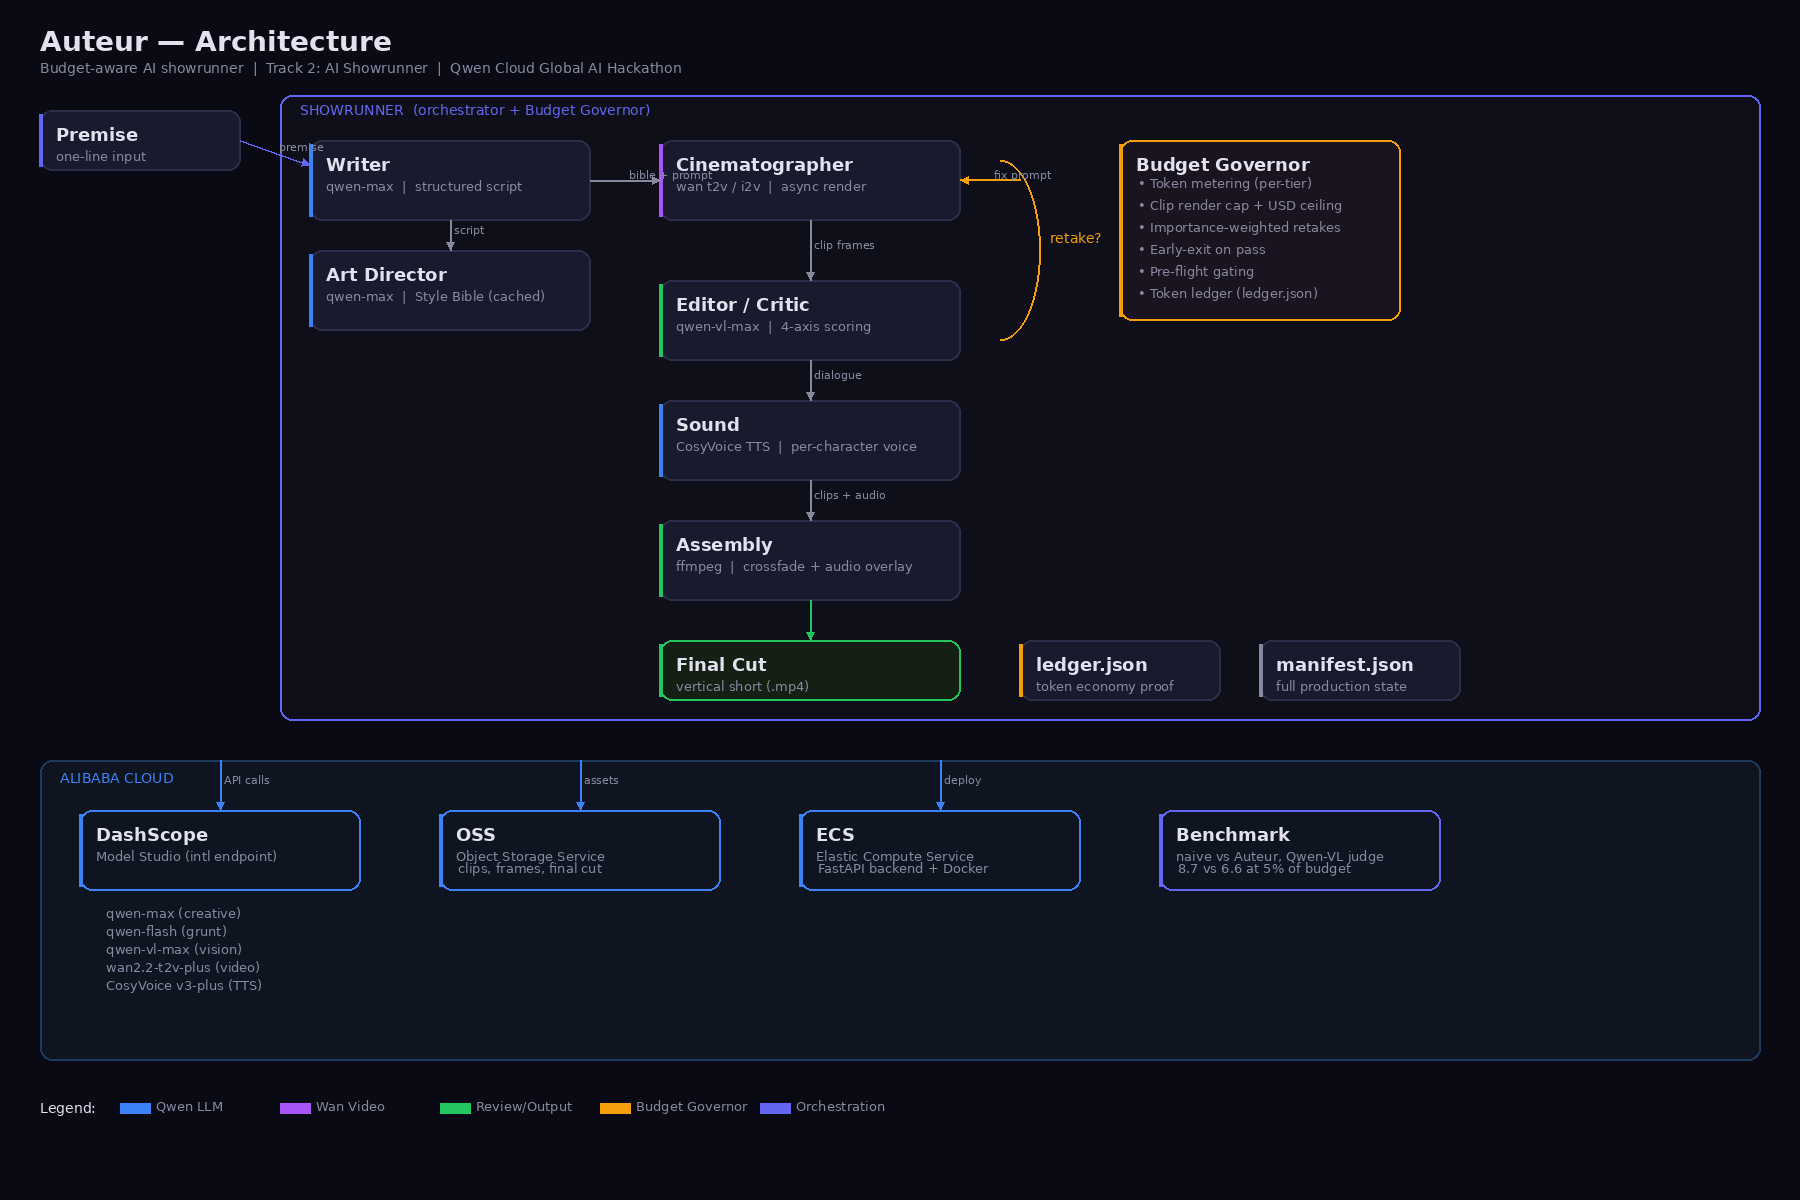
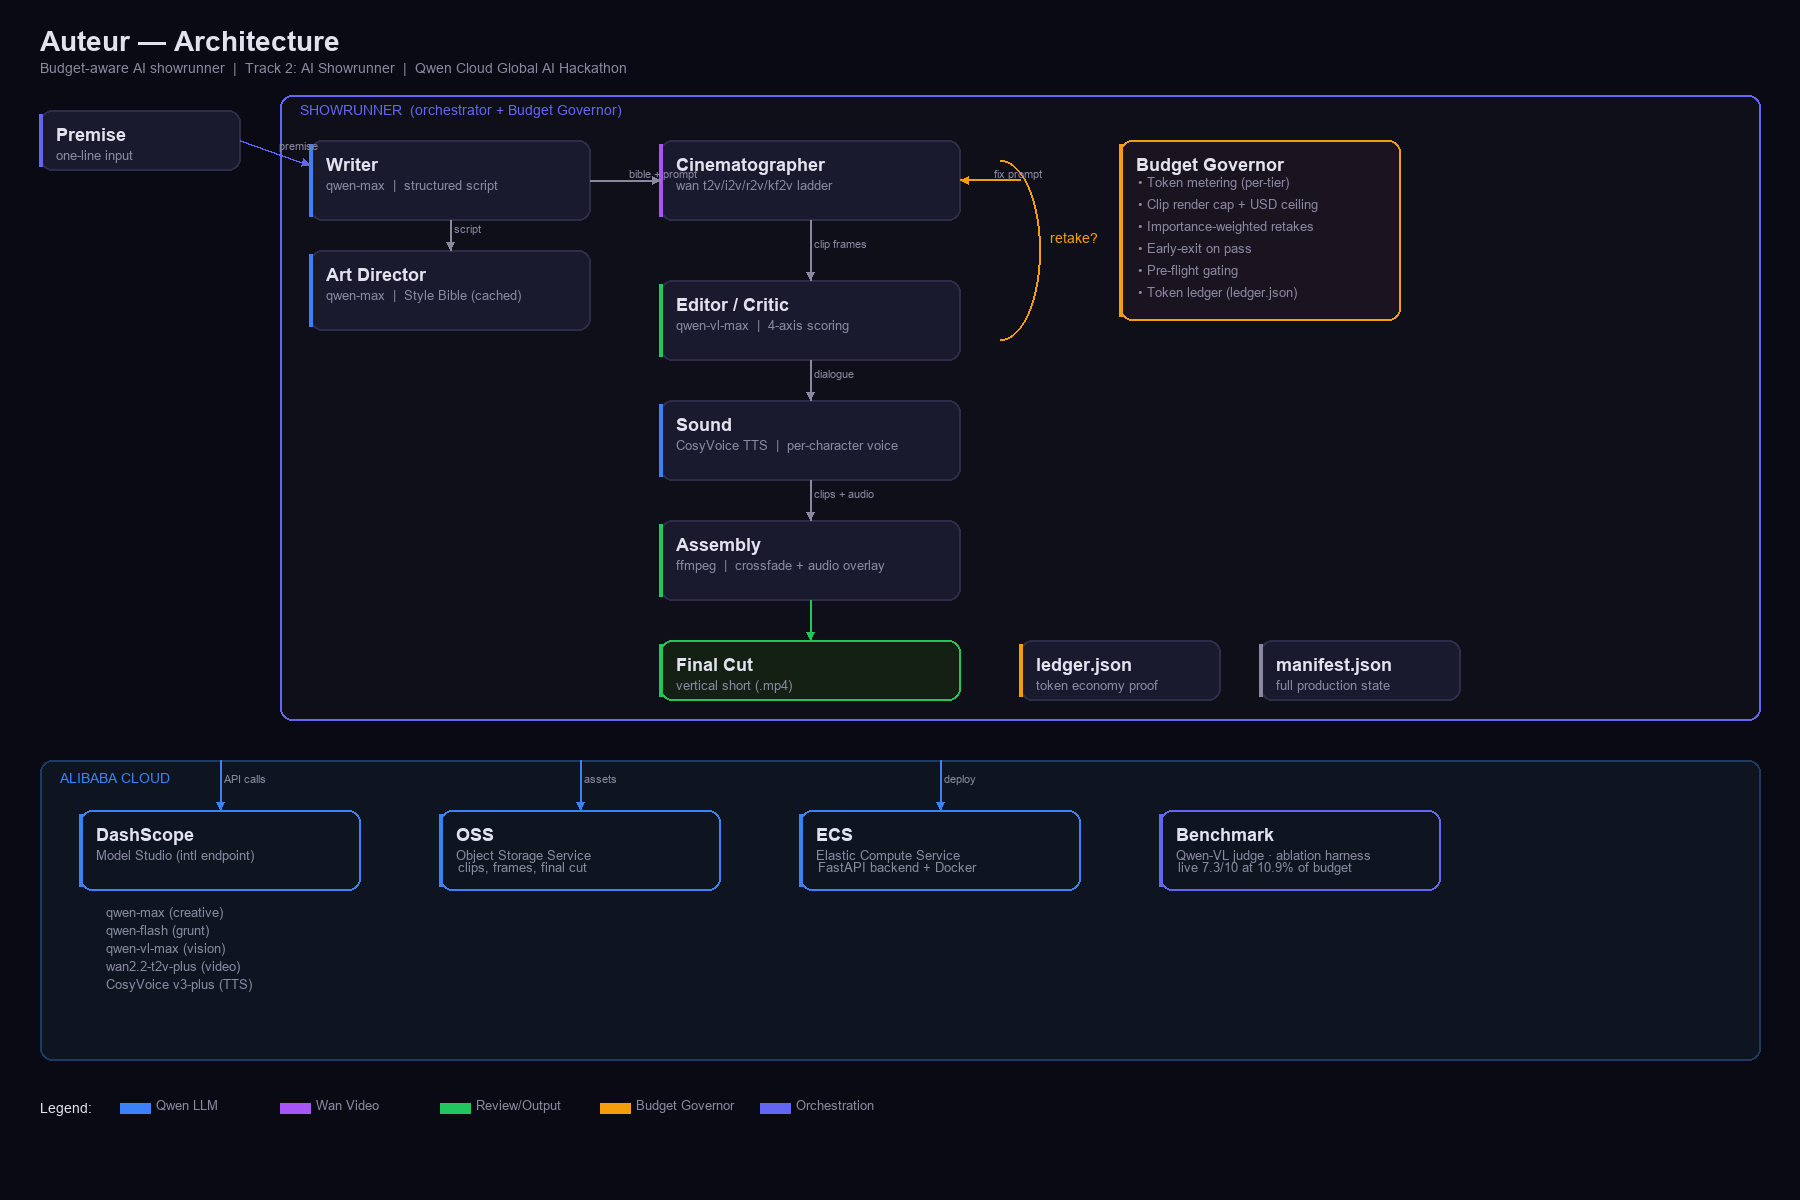
docs: fix + refresh architecture diagram
Correct a fabricated benchmark claim in the diagram (was '8.7 vs 6.6 at 5%
budget' — never measured; now 'live 7.3/10 at 10.9% of budget'), show the new
r2v/kf2v conditioning ladder on the Cinematographer, and make the generator's
font loader cross-platform (Windows/macOS as well as Linux) so em-dash/bullet/
middle-dot glyphs render instead of tofu boxes. Regenerate the PNG and sync the
README Mermaid diagram.

diff --git a/docs/gen_diagram.py b/docs/gen_diagram.py
@@ -25,6 +25,31 @@ WAN_PURPLE = "#a855f7"
 OUT = Path(__file__).parent / "architecture.png"
 
 
+def _ttf(size: int, bold: bool = False) -> ImageFont.FreeTypeFont:
+    """Load a real TrueType font on Linux/Windows/macOS so glyphs like —, •, ·
+    render everywhere (the Linux-only DejaVu path used to fall back to a bitmap
+    font on Windows, drawing those glyphs as tofu boxes)."""
+    bold_paths = [
+        "/usr/share/fonts/truetype/dejavu/DejaVuSans-Bold.ttf",
+        "C:/Windows/Fonts/arialbd.ttf", "C:/Windows/Fonts/segoeuib.ttf",
+        "/System/Library/Fonts/Supplemental/Arial Bold.ttf",
+    ]
+    regular_paths = [
+        "/usr/share/fonts/truetype/dejavu/DejaVuSans.ttf",
+        "C:/Windows/Fonts/arial.ttf", "C:/Windows/Fonts/segoeui.ttf",
+        "/System/Library/Fonts/Supplemental/Arial.ttf",
+    ]
+    for p in (bold_paths if bold else regular_paths):
+        try:
+            return ImageFont.truetype(p, size)
+        except OSError:
+            continue
+    try:
+        return ImageFont.load_default(size)
+    except TypeError:  # older Pillow
+        return ImageFont.load_default()
+
+
 def rounded_rect(draw, xy, fill, outline=None, radius=12):
     x0, y0, x1, y1 = xy
     draw.rounded_rectangle(xy, radius=radius, fill=fill, outline=outline, width=2)
@@ -36,12 +61,8 @@ def box(draw, x, y, w, h, label, sublabel="", fill=CARD, outline=CARD_BORDER,
     if accent_line:
         draw.line([(x, y + 4), (x, y + h - 4)], fill=accent_line, width=4)
     # Label
-    try:
-        font = ImageFont.truetype("/usr/share/fonts/truetype/dejavu/DejaVuSans-Bold.ttf", 18)
-        sfont = ImageFont.truetype("/usr/share/fonts/truetype/dejavu/DejaVuSans.ttf", 13)
-    except OSError:
-        font = ImageFont.load_default()
-        sfont = font
+    font = _ttf(18, bold=True)
+    sfont = _ttf(13)
     draw.text((x + 16, y + 14), label, fill=label_color, font=font)
     if sublabel:
         draw.text((x + 16, y + 38), sublabel, fill=DIM, font=sfont)
@@ -63,10 +84,7 @@ def arrow(draw, x1, y1, x2, y2, color=DIM, label=""):
         (int(px + uy * size / 2), int(py - ux * size / 2)),
     ], fill=color)
     if label:
-        try:
-            lfont = ImageFont.truetype("/usr/share/fonts/truetype/dejavu/DejaVuSans.ttf", 11)
-        except OSError:
-            lfont = ImageFont.load_default()
+        lfont = _ttf(11)
         mx, my = (x1 + x2) // 2, (y1 + y2) // 2
         draw.text((mx + 4, my - 12), label, fill=DIM, font=lfont)
 
@@ -75,12 +93,8 @@ def main():
     img = Image.new("RGB", (W, H), BG)
     draw = ImageDraw.Draw(img)
 
-    try:
-        title_font = ImageFont.truetype("/usr/share/fonts/truetype/dejavu/DejaVuSans-Bold.ttf", 28)
-        sub_font = ImageFont.truetype("/usr/share/fonts/truetype/dejavu/DejaVuSans.ttf", 14)
-    except OSError:
-        title_font = ImageFont.load_default()
-        sub_font = title_font
+    title_font = _ttf(28, bold=True)
+    sub_font = _ttf(14)
 
     # Title
     draw.text((40, 25), "Auteur — Architecture", fill=WHITE, font=title_font)
@@ -103,7 +117,7 @@ def main():
     arrow(draw, 450, 220, 450, 250, DIM, "script")
 
     # --- Cinematographer ---
-    box(draw, 660, 140, 300, 80, "Cinematographer", "wan t2v / i2v  |  async render", accent_line=WAN_PURPLE)
+    box(draw, 660, 140, 300, 80, "Cinematographer", "wan t2v/i2v/r2v/kf2v ladder", accent_line=WAN_PURPLE)
     arrow(draw, 590, 180, 660, 180, DIM, "bible + prompt")
 
     # --- Critic ---
@@ -126,10 +140,7 @@ def main():
     # --- Budget Governor (sidebar) ---
     box(draw, 1120, 140, 280, 180, "Budget Governor", fill="#1a1420",
         outline=ACCENT2, accent_line=ACCENT2)
-    try:
-        bfont = ImageFont.truetype("/usr/share/fonts/truetype/dejavu/DejaVuSans.ttf", 13)
-    except OSError:
-        bfont = sub_font
+    bfont = _ttf(13)
     budget_items = [
         "Token metering (per-tier)",
         "Clip render cap + USD ceiling",
@@ -176,9 +187,9 @@ def main():
     arrow(draw, 940, 760, 940, 810, QWEN_BLUE, "deploy")
 
     # --- Benchmark section ---
-    box(draw, 1160, 810, 280, 80, "Benchmark", "naive vs Auteur, Qwen-VL judge",
+    box(draw, 1160, 810, 280, 80, "Benchmark", "Qwen-VL judge · ablation harness",
         fill="#0f1520", outline=ACCENT, accent_line=ACCENT)
-    draw.text((1178, 860), "8.7 vs 6.6 at 5% of budget", fill=DIM, font=bfont)
+    draw.text((1178, 860), "live 7.3/10 at 10.9% of budget", fill=DIM, font=bfont)
 
     # --- Legend ---
     draw.text((40, 1100), "Legend:", fill=WHITE, font=sub_font)

diff --git a/README.md b/README.md
@@ -184,7 +184,7 @@ flowchart TD
     S --> BG["Budget Governor\n(token ledger)"]
     W -->|"beat sheet\n+ script"| AD["ART DIRECTOR\nqwen-max"]
     AD -->|"style bible\n+ char descriptions"| PO["PROMPT OPTIMIZER\nqwen-flash"]
-    PO -->|"refined prompts"| C["CINEMATOGRAPHER\nWan t2v/i2v"]
+    PO -->|"refined prompts"| C["CINEMATOGRAPHER\nWan t2v/i2v/r2v/kf2v ladder"]
     BG -->|"resolution routing\n480P/720P/1080P"| C
     C -->|"raw clips"| EC["EDITOR / CRITIC\nQwen-VL + ffmpeg"]
     EC -->|"fail → retake"| C
